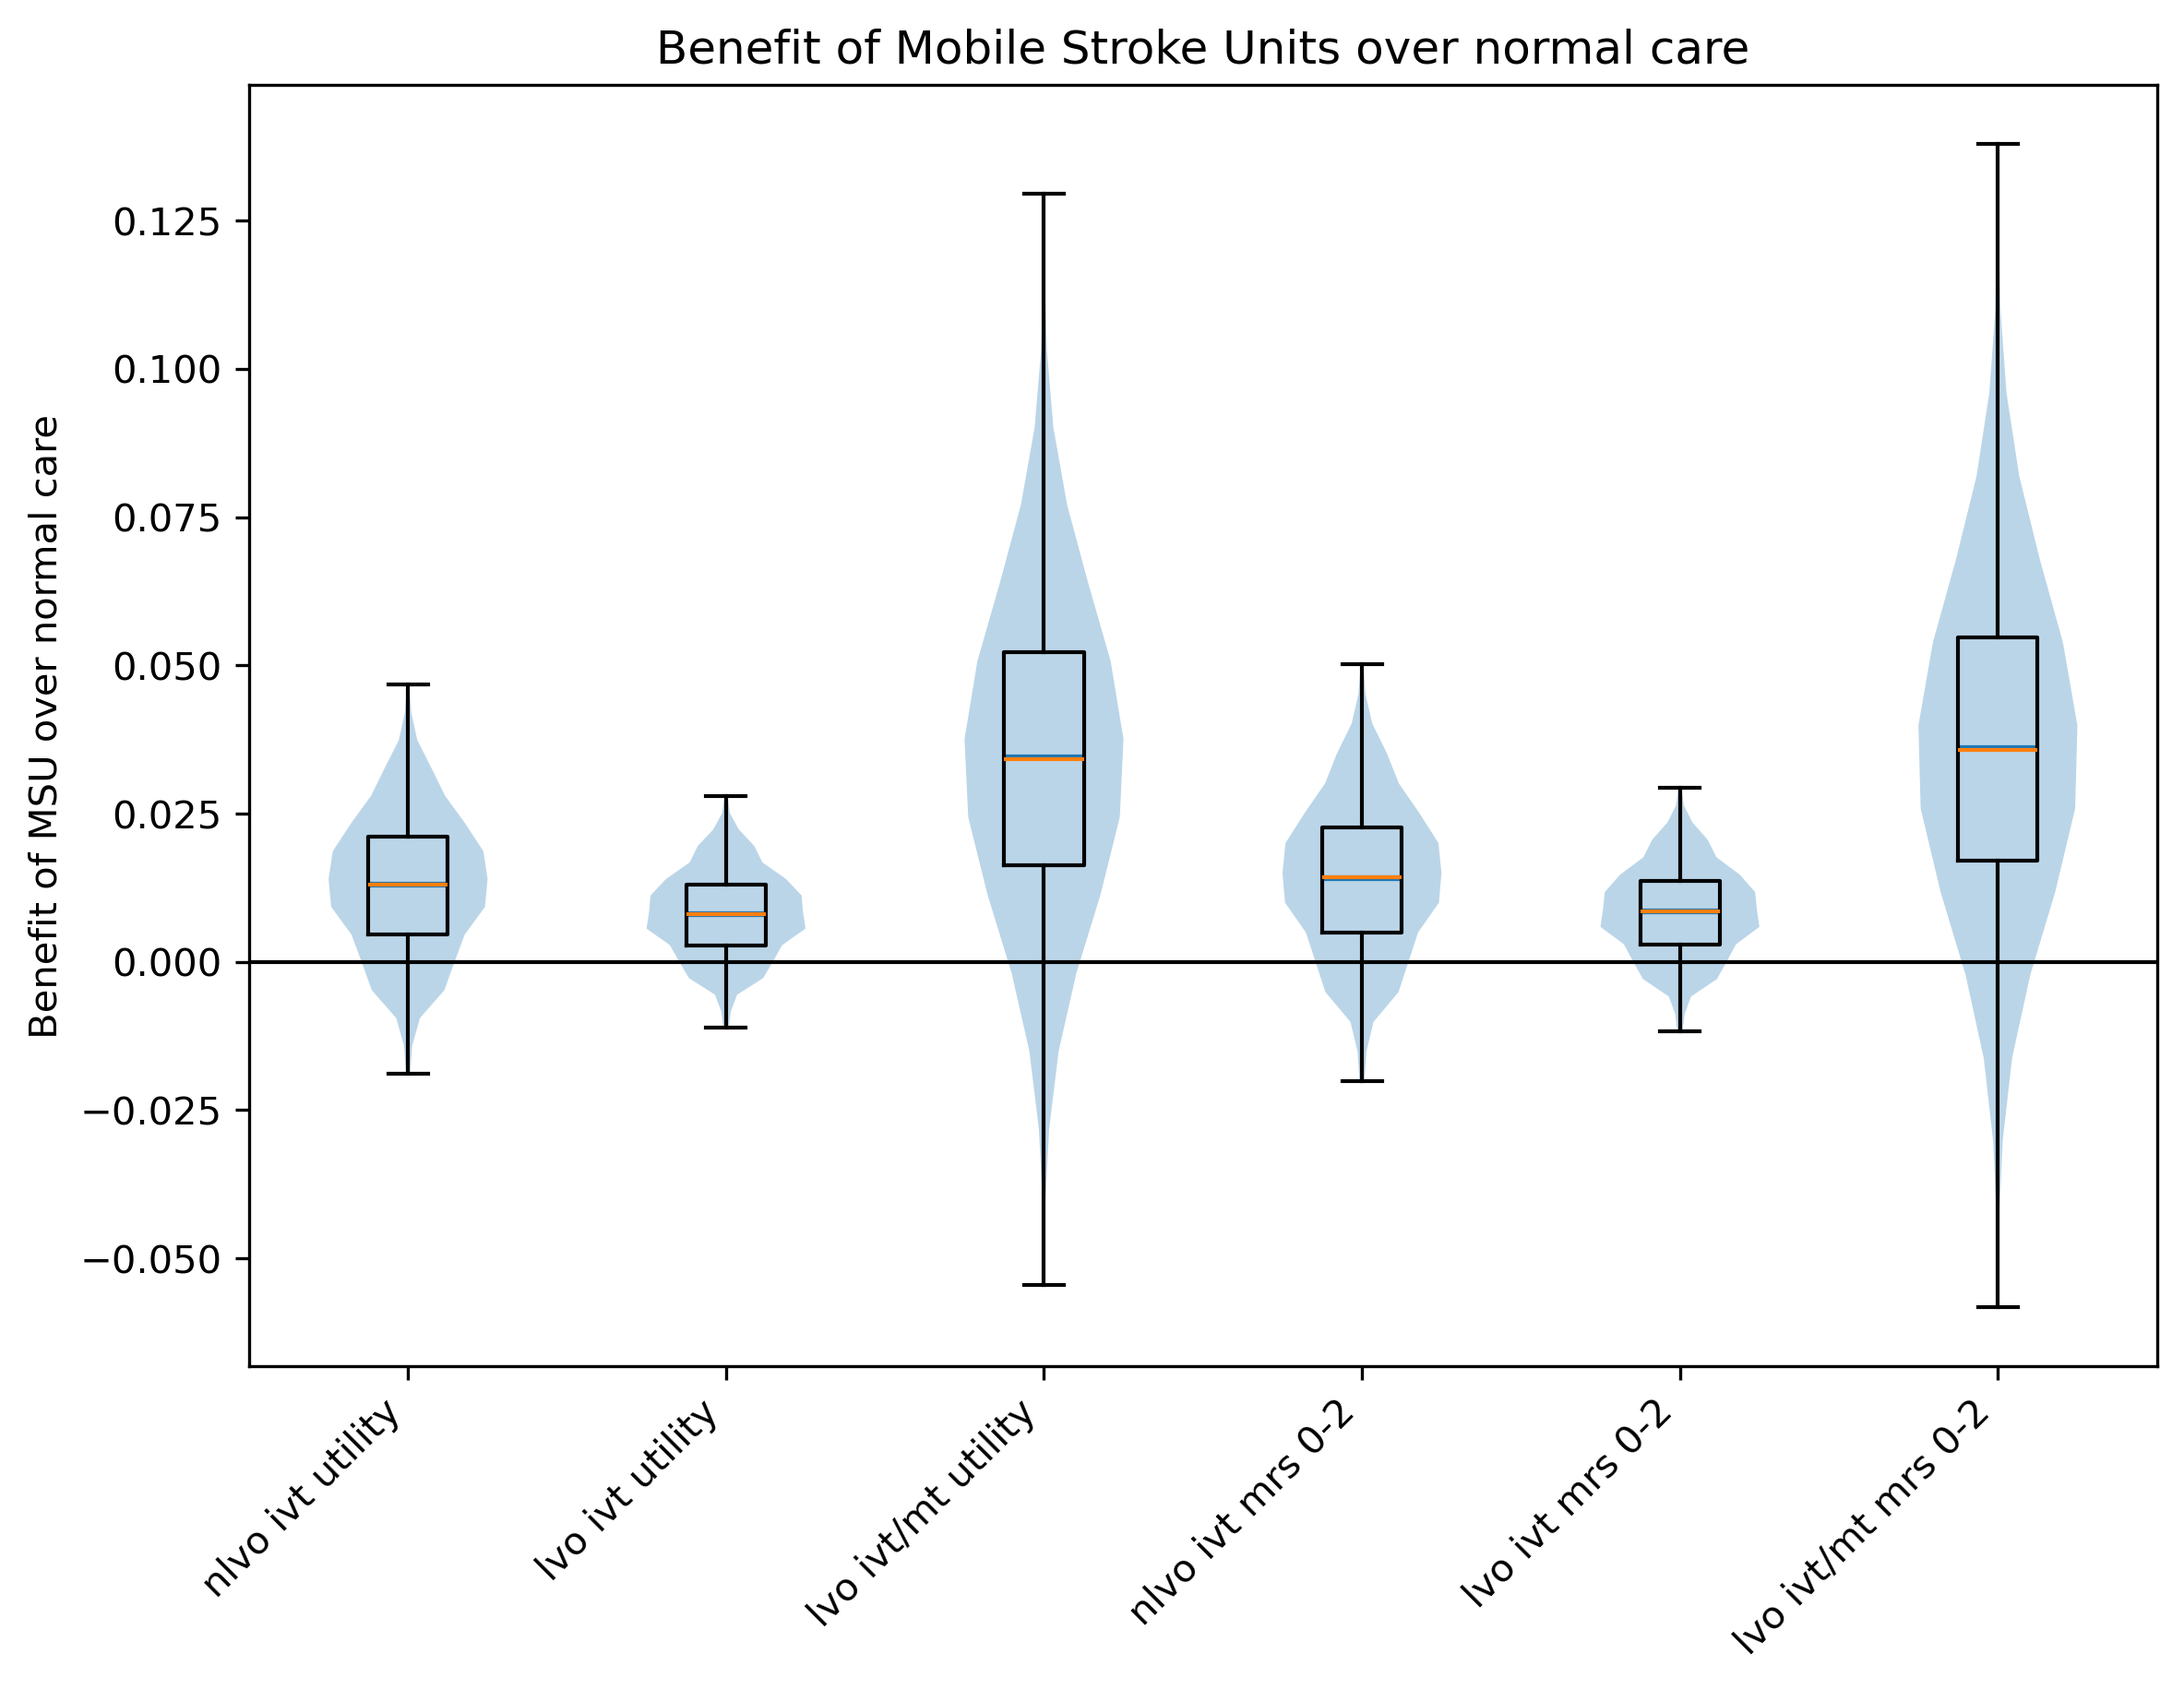
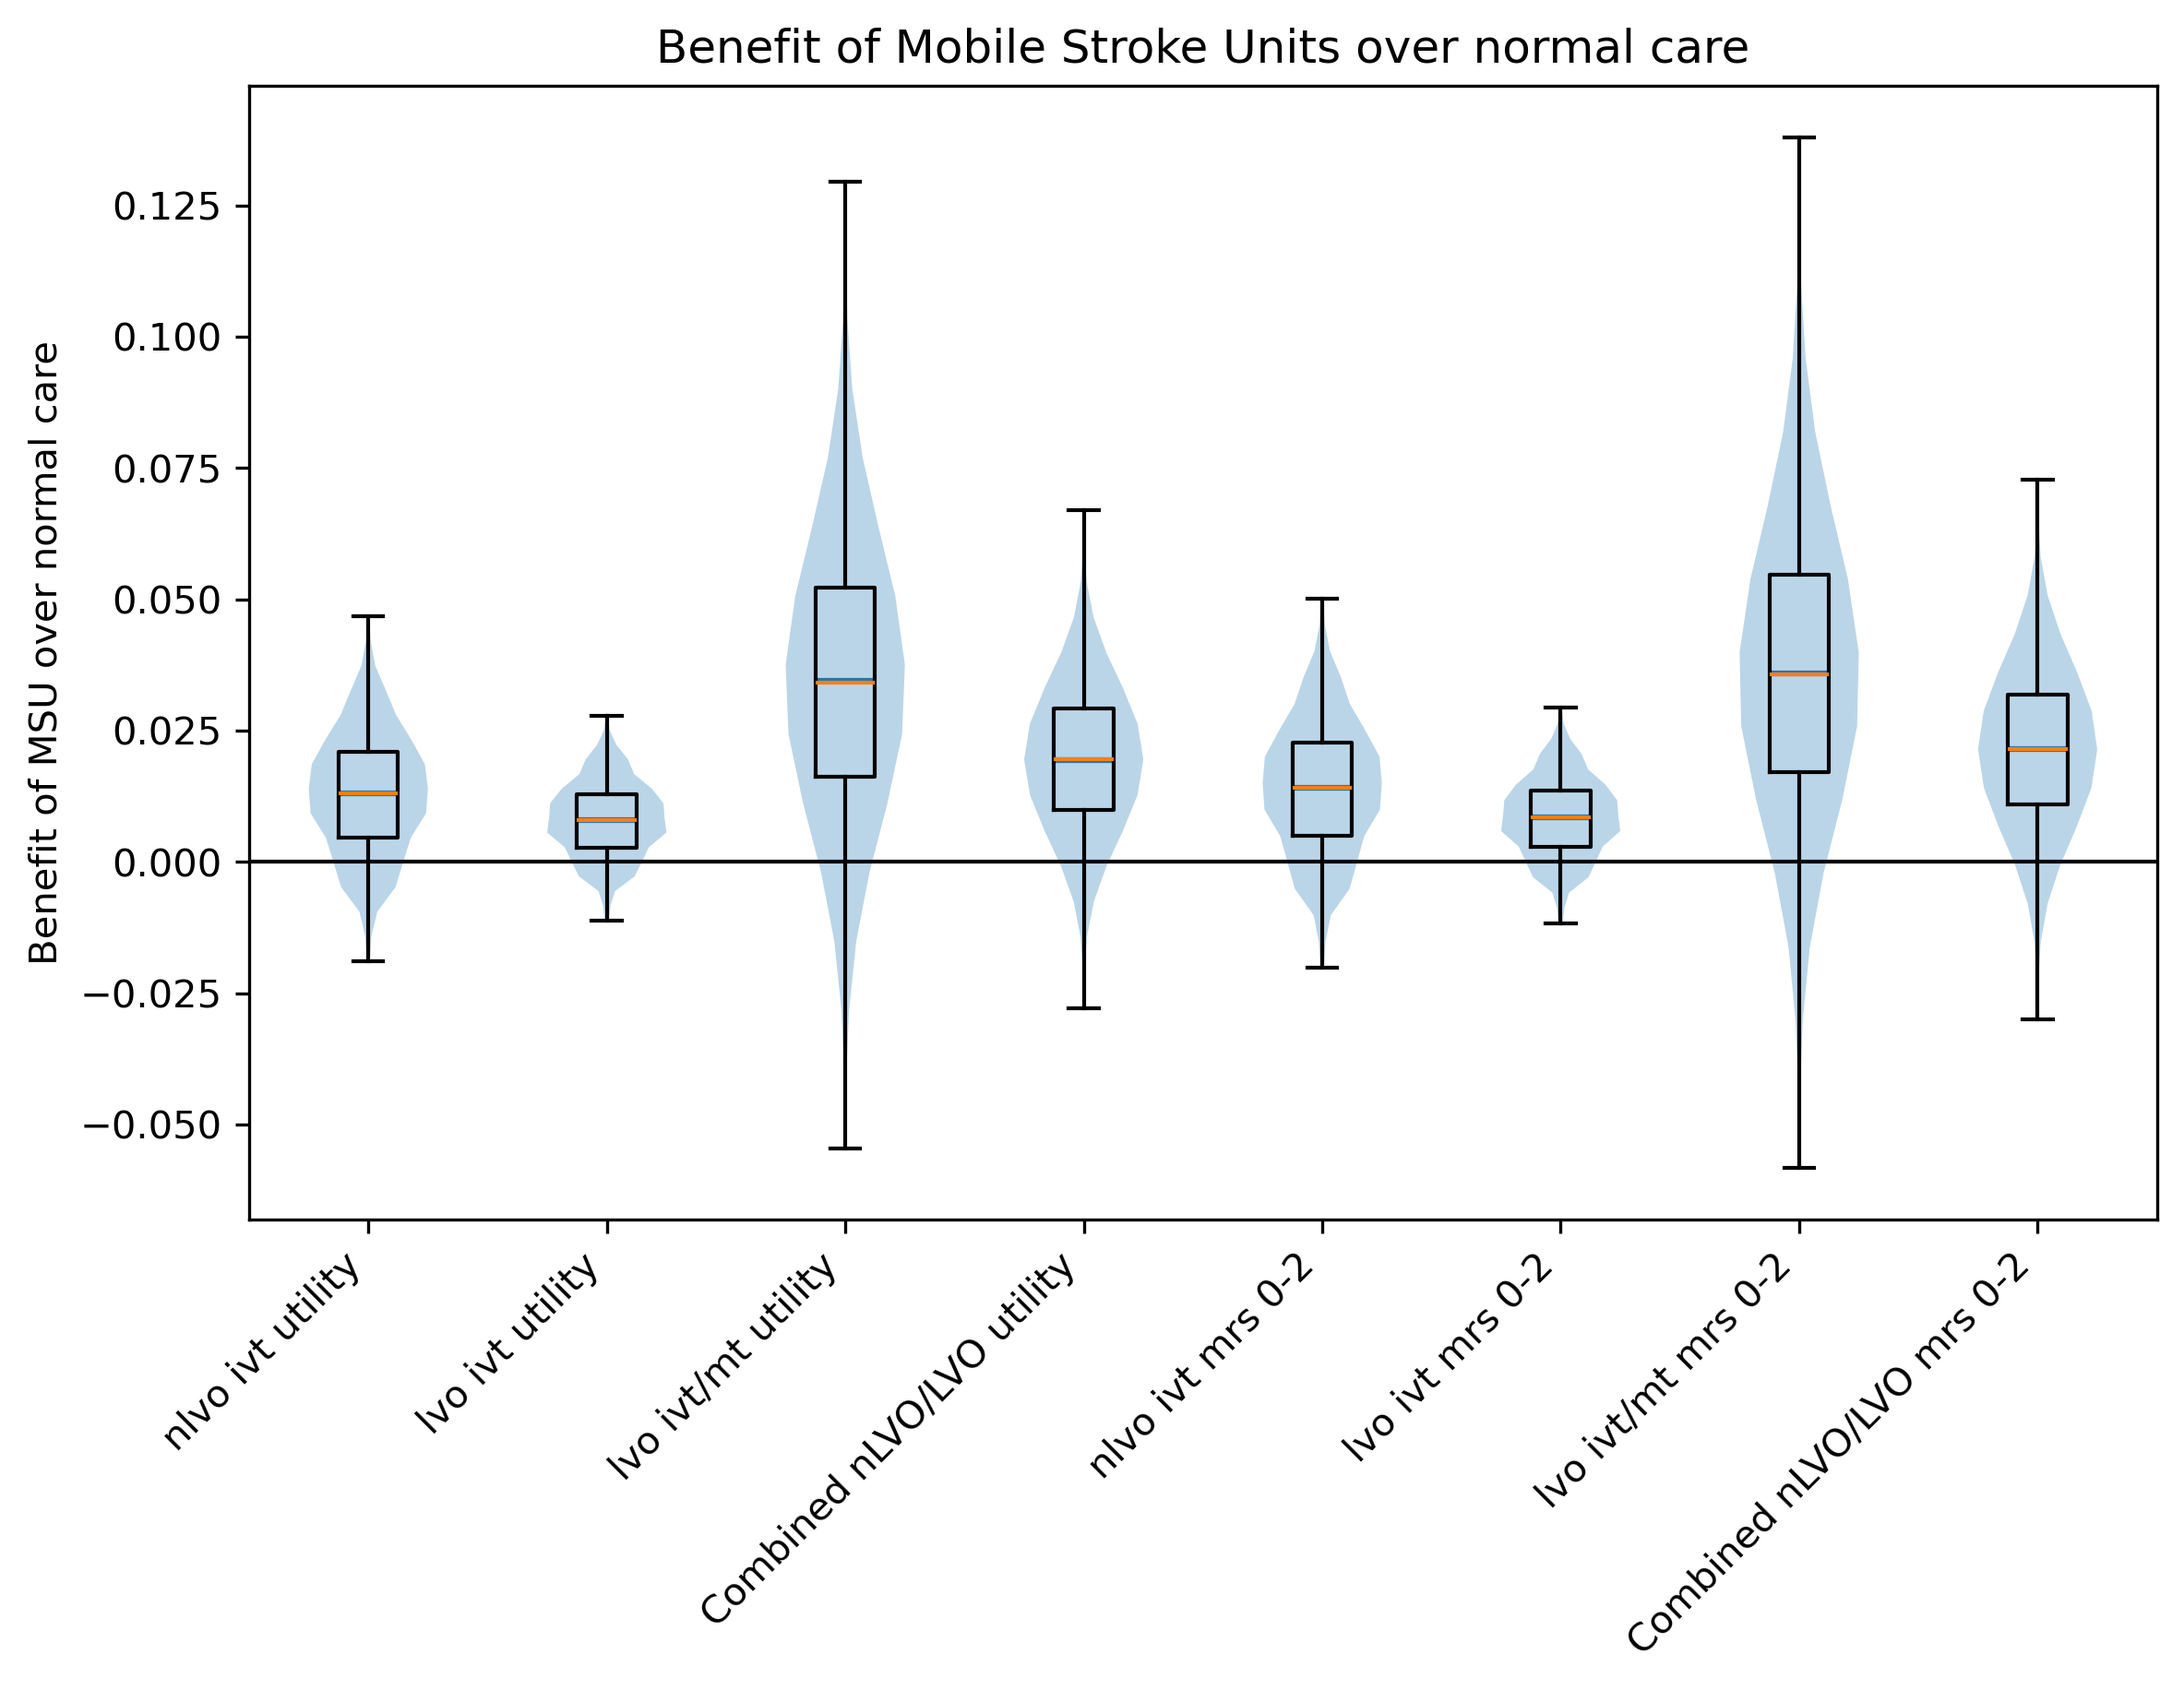
Updates from Overleaf

diff --git a/sections/5_results.tex b/sections/5_results.tex
@@ -2,15 +2,17 @@
 
 \subsection{Scenario analysis}
 
-Figure \ref{fig:scenarios_overview} shows the range of results, measured by utility or the proportion of patients with an outcome of mRS 0-2, separating the changes for nLVO and LVO. Across all scenarios MSUs are usually found to be advantageous compared with usual care, but in some scenarios (comparing the best likely usual care with the worst likely MSU care), MSUs were found to be disadvantageous compared with usual care. Across the majority of scenarios the benefit of MSU care over usual care was typicall (interquartile range across scenarios) an improvement of 0.005 to 0.021 in utility for nLVO, and 0.016-0.052 for LVO treated with both IVT and MT. This translated to an improvement of the proportion of patients mRS 0-2 of 0.005-0.023 for nLVO, and 0.017-0.055 for LVO treated with both IVT and MT. The benefit to patients with LVO was derived mostly by improving benefit of MT by direct transport to a MT-capable unit.
+Figure \ref{fig:scenarios_overview} shows the range of results, measured by utility or the proportion of patients with an outcome of mRS 0-2, separating the changes for nLVO and LVO. Across all scenarios MSUs are usually found to be advantageous compared with usual care, but in some scenarios (comparing the best likely usual care with the worst likely MSU care), MSUs were found to be disadvantageous compared with usual care. Across the majority of scenarios the benefit of MSU care over usual care was typically (interquartile range across scenarios) an improvement of 0.005 to 0.021 in utility for nLVO, and 0.016-0.052 for LVO treated with both IVT and MT. This translated to an improvement of the proportion of patients mRS 0-2 of 0.005-0.023 for nLVO, and 0.017-0.055 for LVO treated with both IVT and MT. The benefit to patients with LVO was derived mostly by improving benefit of MT by direct transport to a MT-capable unit. For the combined nLVO/LVO population (assuming 70\% nLVO and 30\%LVO in the treated population) there was typically (interquartile range across scenarios) an improvement of 0.010-0.029 in utility, and improvement of the proportion of patients mRS 0-2 of 0.011-0.032.
 
 
 \begin{figure}[h]
     \centering
     \includegraphics[width=0.6\linewidth]{images/scenario_results_summary.png}
-    \caption{Benefit of usual care over MSU care across all scenarios, in the treated population, measured by utility or the proportion of patients with an outcome of mRS0-2, separating the changes for nLVO and LVO. Results for LVO show the effect of MSUs on the benefit derived from IVT alone, or by IVT/MT in combination. Box plots show range, interquartile range, and median. Overlaid over the box plots are violin plots showing the distribution of results across all scenarios. A positive value indicates MSUs provide an advantage over usual care, and a negative result show MSUs are disadvantageous compared with usual care. Results are the average effect across all LSOAs in England.}
+    \caption{Benefit of usual care over MSU care across all scenarios, in the treated population, measured by utility or the proportion of patients with an outcome of mRS0-2, separating the changes for nLVO and LVO. Results for LVO show the effect of MSUs on the benefit derived from IVT alone, or by IVT/MT in combination. Box plots show range, interquartile range, and median. The combined nLVO/LVO benefit assumed 70\% nLVO and 30\%LVO in the treated population. Overlaid over the box plots are violin plots showing the distribution of results across all scenarios. A positive value indicates MSUs provide an advantage over usual care, and a negative result show MSUs are disadvantageous compared with usual care. Results are the average effect across all LSOAs in England.}
     \label{fig:scenarios_overview}
 \end{figure}
+
+
 
 Figure \ref{fig:scenarios_utility} shows how changing model parameters affects the predicted benefit of MSUs, using utility as a measure. Results show the combined affect on nLVO/LVO assuming 70\% nLVO and 30\% LVO  in the treatable population. Changing time from onset to call only had marginal effect on the benefit of MSUs over usual care. Changing parameters that worsen usual care (such as lengthening ambulance response times, or lengthening arrival to IVT, lead to improved advantages of MSUs over usual care. Likewise, changing parameters that improve MSU care (such as MSU dispatch times, or time to IVT on scene) improved advantages of MSUs over usual care.
 
@@ -30,7 +32,7 @@ Figure \ref{fig:map_times} shows travel and transfer times for usual care and fo
 \begin{figure}[h]
     \centering
     \includegraphics[width=1.0\linewidth]{images/map_times.jpg}
-    \caption{Travel times for each LSOA. \textit{Left}: Travel times to nearest unit providing IVT. \textit{Middle}: Travel times to unit providing MT. For those first attending an IVT-only centre, the travel times include the travel time to the IVT-only centre, the inter-hospital travel time, and a net additional delay of 60 minutes. \textit{Right}: Travel times for MSUs. Circles show locations of IVT-only units. Stars show locations of comprehensive stroke centres providing both IVT and MT, and being the base locations of MSUs.}
+    \caption{Travel times and population density for each LSOA. \textit{Top left}: Travel times to nearest unit providing IVT. \textit{Top right}: Travel times to unit providing MT. For those first attending an IVT-only centre, the travel times include the travel time to the IVT-only centre, the inter-hospital travel time, and a net additional delay of 60 minutes. \textit{Bottom left}: Travel times for MSUs. \textit{Bottom right}: Population desnity (with scale capped at 100 persons per hectre). Circles show locations of IVT-only units. Stars show locations of comprehensive stroke centres providing both IVT and MT, and being the base locations of MSUs.}
     \label{fig:map_times}
 \end{figure}
 
@@ -60,14 +62,14 @@ Figure \ref{fig:msu_histograms} shows histograms of benefit of MSUs over usual c
 
 \subsection{Varying number of MSU locations}
 
-A greedy algorithm was used to select locations of MSUs. The utility gain is calculated for those patients treated by a MSU rather than usual care. As the number of MSU locations increased, the benefit of MSUs over usual care increased (\ref{fig:greedy}), but with diminishing returns. The advantage of MSU care over usual care improved utility by 0.020, 0.024, 0.027, and  with 10, 25, 50 and 100 MSU base locations. 
+A greedy algorithm was used to select locations of MSUs. The utility gain is calculated for those patients treated by a MSU rather than usual care. As the number of MSU locations increased, the benefit of MSUs over usual care increased (\ref{fig:greedy}), but with diminishing returns. The advantage of MSU care over usual care improved utility by 0.020, 0.024, 0.027, and  with 10, 25, 50 and 100 MSU base locations when MSU locations are chosen from any sttroke unit type. 
 
-When selecting locations of mobile stroke units, in the first 10 selections, 3 were comprehensive stroke units, and in the first 20, 8 were comprehensive stroke units.
+When selecting locations of mobile stroke units, in the first 10 selections, 3 were comprehensive stroke units, and in the first 20, 8 were comprehensive stroke units. With MSUs based at 23 current MY centres the net utility benefit over normal care was 0.022. With optimal selection of location of the same number of bases the utility benefit was increased to 0.023.
 
 \begin{figure}[h]
     \centering
     \includegraphics[width=0.5\linewidth]{images/msu_advantages_greedy.png}
-    \caption{Increasing number of base locations of MSUs, with selection by a greedy algorithm based on improvements in utility. The utility improvement is for those patients treated by MSU rather than usual care.}
+    \caption{Increasing number of base locations of MSUs, with selection by a greedy algorithm based on improvements in utility. The utility improvement is for those patients treated by MSU rather than usual care. Units were choself either from any stroke unit type (solid line) or only from comprehensive stroke centres (dashed line).}
     \label{fig:greedy}
 \end{figure}
 

diff --git a/sections/4_methods.tex b/sections/4_methods.tex
@@ -68,7 +68,7 @@ Scenario analysis was undertaken to investigate how changing assumed model param
 
 \subsection{Geographic analysis}
 
-To study geographic variation in benefit of MSUs, a single set of parameters was chosen, reflecting a reasonable base case for performance of normal care and MSU care. Process times (minutes) are shown below, with ambulance and MSU travel times and inter-hospital travel times dependent on patient location (LSOA). In this base case scenario MSUs are based at comprehensive stroke centres only. Admission numbers per LSOA were taken from HES 2017-2019 (using OCD-10 codes of I61, I63 and I64).
+To study geographic variation in benefit of MSUs, a single set of parameters was chosen, reflecting a reasonable base case for performance of normal care and MSU care. Process times (minutes) are shown below, with ambulance and MSU travel times and inter-hospital travel times dependent on patient location (LSOA). In this base case scenario MSUs are based at comprehensive stroke centres only. Admission numbers per LSOA were taken from HES 2017-2019 (using OCD-10 codes of I61, I63 and I64). Population density was taken from the Office of National Statistics 2011 census.
 
 
 \begin{minipage}{1.0\textwidth}  % Define the width of the minipage
@@ -100,4 +100,4 @@ To study geographic variation in benefit of MSUs, a single set of parameters was
 
 \subsection{Varying number of MSU locations}
 
-In order to study the effect of changing the number of MSU base locations, a greedy algorithm was used. In this method, 100 MSU locations are added, chosen from any stroke unit type, in the order of maximum improvement in outcomes (utility). The utility gain is calculated for those patients treated by a MSU rather than usual care; the algorithm is therefore looking at the effect of changing MSU locations rather than the number of physical MSUs.
+In order to study the effect of changing the number of MSU base locations, a greedy algorithm was used. In this method, 100 MSU locations are added, chosen from either only comprehensive stroke centres, or from any stroke unit type, in the order of maximum improvement in outcomes (utility). The utility gain is calculated for those patients treated by a MSU rather than usual care; the algorithm is therefore looking at the effect of changing MSU locations rather than the number of physical MSUs.

diff --git a/sections/8_supplementarty_material.tex b/sections/8_supplementarty_material.tex
@@ -4,7 +4,19 @@
 
 
 
-
+\begin{minipage}{1.0\linewidth}
+\begin{tabular}{llllllll}
+Outcome measure           & mean  & std   & min    & 25\%  & 50\%  & 75\%  & max   \\
+nlvo ivt utility          & 0.013 & 0.012 & -0.019 & 0.005 & 0.013 & 0.021 & 0.047 \\
+lvo ivt utility           & 0.008 & 0.007 & -0.011 & 0.003 & 0.008 & 0.013 & 0.028 \\
+lvo ivt/mt utility        & 0.034 & 0.026 & -0.055 & 0.016 & 0.034 & 0.052 & 0.13  \\
+Combined nLVO/LVO utility & 0.019 & 0.014 & -0.028 & 0.01  & 0.02  & 0.029 & 0.067 \\
+nlvo ivt mrs 0-2          & 0.014 & 0.013 & -0.02  & 0.005 & 0.014 & 0.023 & 0.05  \\
+lvo ivt mrs 0-2           & 0.008 & 0.007 & -0.012 & 0.003 & 0.008 & 0.014 & 0.029 \\
+lvo ivt/mt mrs 0-2        & 0.036 & 0.028 & -0.058 & 0.017 & 0.036 & 0.055 & 0.138 \\
+Combined nLVO/LVO mrs 0-2 & 0.021 & 0.015 & -0.03  & 0.011 & 0.021 & 0.032 & 0.073
+\end{tabular}
+\end{minipage}
 
 \begin{figure}
     \centering
